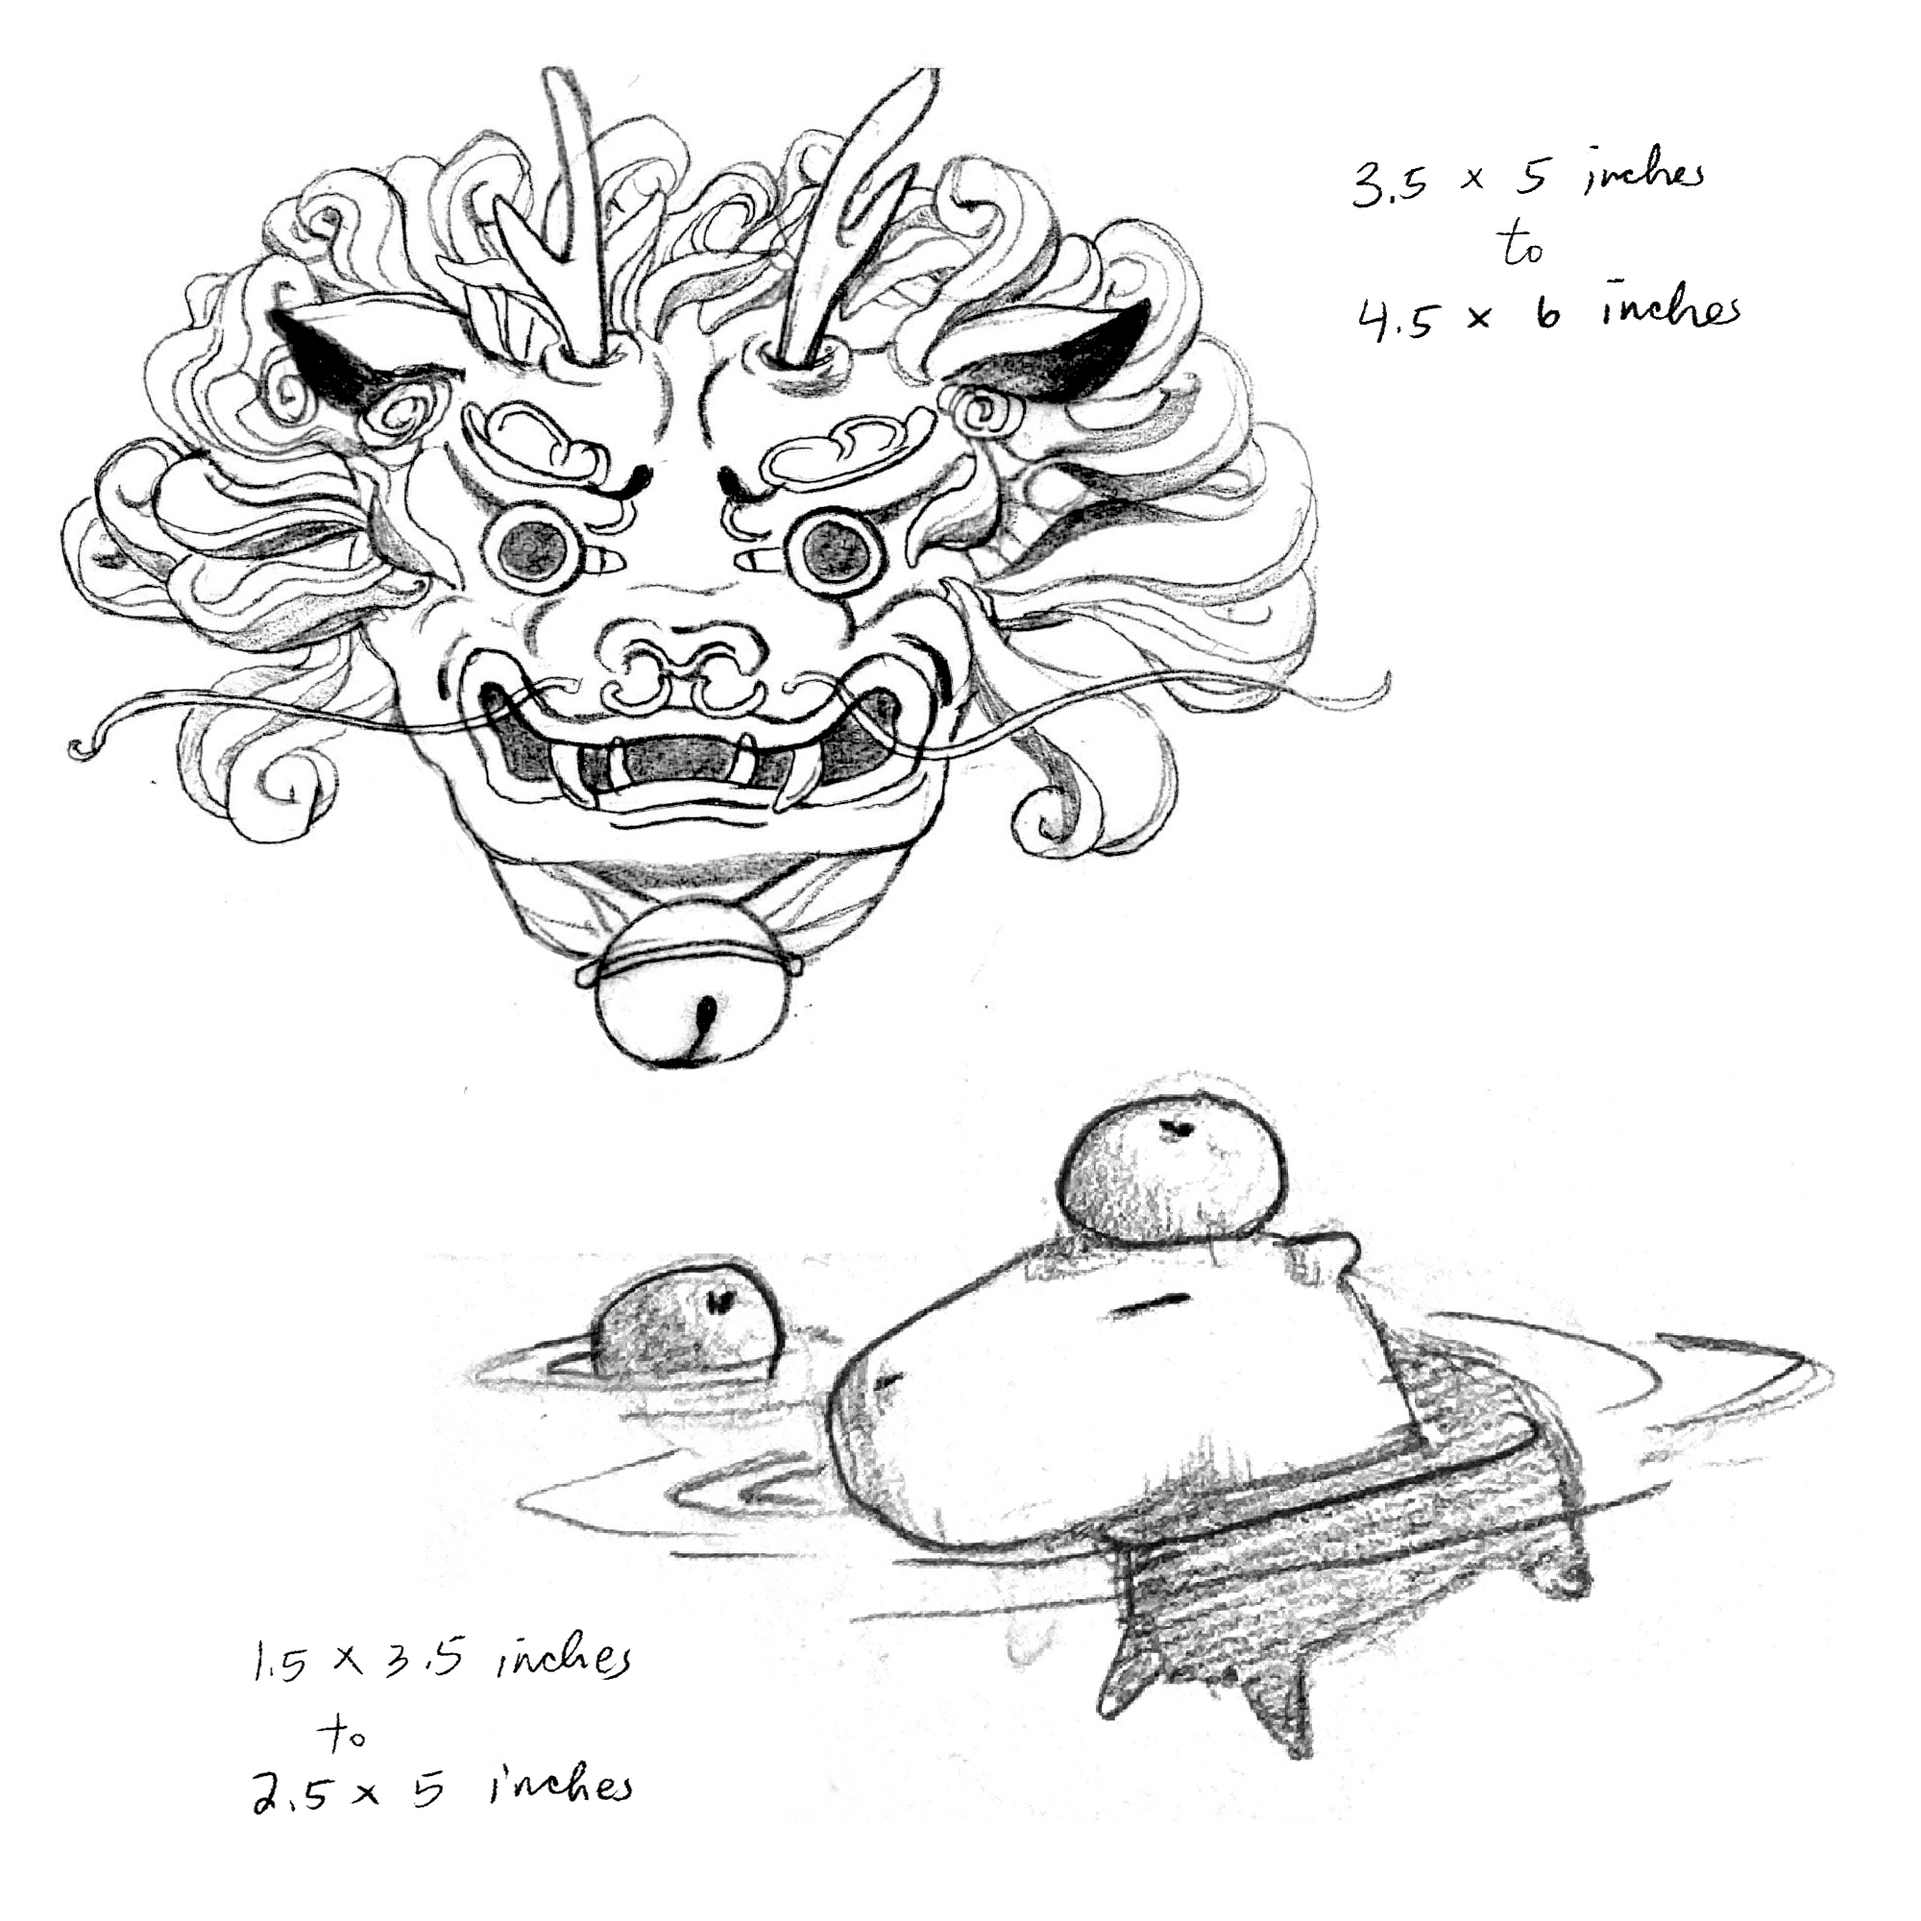
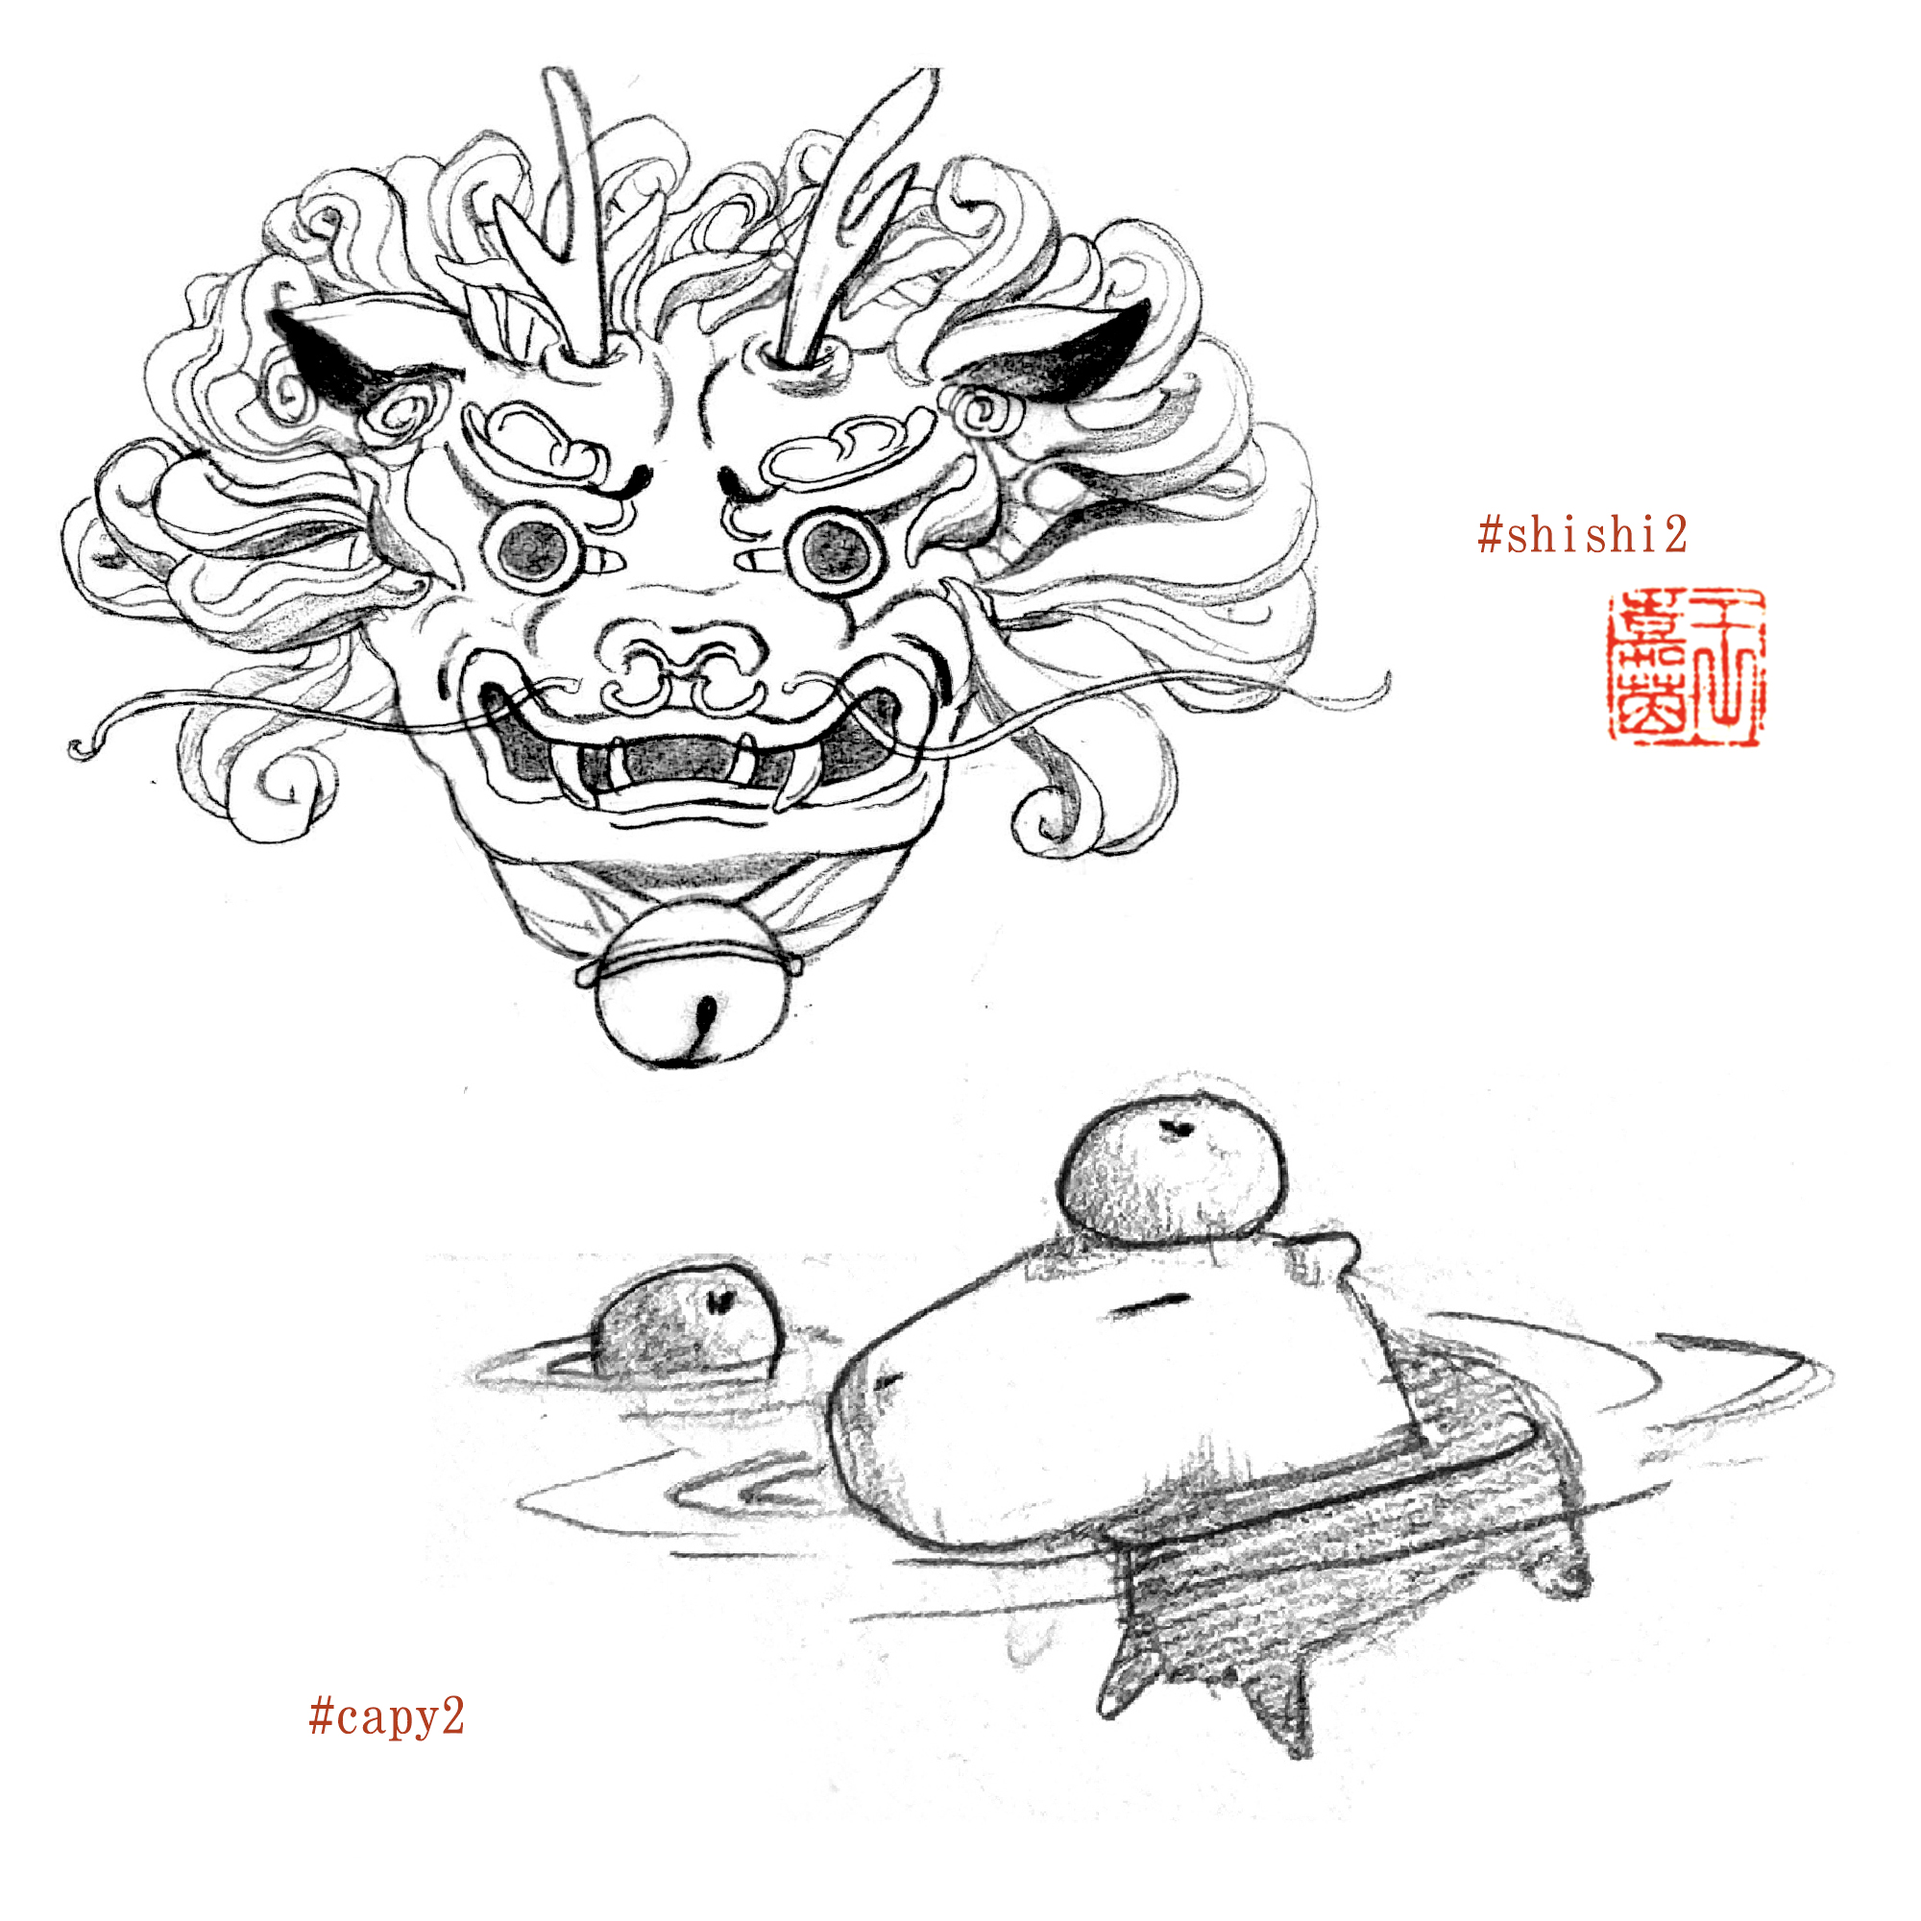
more edits to flash page

diff --git a/red-seal.md b/red-seal.md
@@ -10,9 +10,8 @@ permalink: /red-seal/
 This is the seal image (you can ignore anything else):  
 ![red-seal](/images/red-seal.png)  
 <br>
-- As an artist I would really prefer to tattoo certain designs of mine that draw from Chinese cultural imagery to people who have personal cultural connection to it (I put my red seal stamp on these flashes). This could mean you are of Chinese/Taiwanese descent, or other specific personal context. I also acknowledge that these imagery overlap with styles and subject matters of other cultures (for example, chinese knots and korean norigae are quite similar), so I'm not super picky about this.  
-<br>
-- I just ask that you judge for yourself whether you have such a connection. I will not question your interpretation of this note, nor will I ask for any explanation; I just would like you to think about it for a moment. If you feel comfortable getting the tattoo after reading this note, then I feel comfortable making it for you, as you know best where you're coming from. Sorry this is both wordy and vague, best draft I could write.  
+- I prefer to tattoo certain designs of mine that draw from cultural imagery to people who have a personal connection to that imagery. Up to your judgement what that is, I won't ask or anything just please think about it for a moment. If you feel comfortable getting the tattoo after reading this note, then I feel comfortable making it for you, as you know best where you're coming from.  
+- This is coming from my discomfort as an artist with orientalist vibes I get from people about my work sometimes.  
 - Just **include the word 'frogger'** in the note box on my booking form so that I know you've read this, if you are requesting one of these designs.  
 <br>
 - Otherwise, I would respectfully ask that you choose a different flash piece / custom concept if you are interested in my work! I hope you can understand and respect my feelings on this.  

diff --git a/booking-info.md b/booking-info.md
@@ -20,7 +20,7 @@ Please join mailing list to receive the booking form link when books open. I wil
 - Once to twice a month, I will email out to my mailing list when my books open. At that time a link to a tattoo booking form will appear on this website. Some time later I will put the link in my instagram bio link as well.  
 - I only book tattoos through the booking form. Please do not email or DM with booking requests.  
 - New flash posted here when books open. I will keep both this page & instagram flash highlight updated with availability. If I have last minute openings or cancellations come up, I will post on instagram story.    
-- [You can join my mailing list at this link](http://eepurl.com/hD-omr)  
+- [You can join my mailing list at this link](o)  
 - My tattoo work can be viewed [here](https://instagram.com/molymoli_) on instagram.  
 <br>
 
